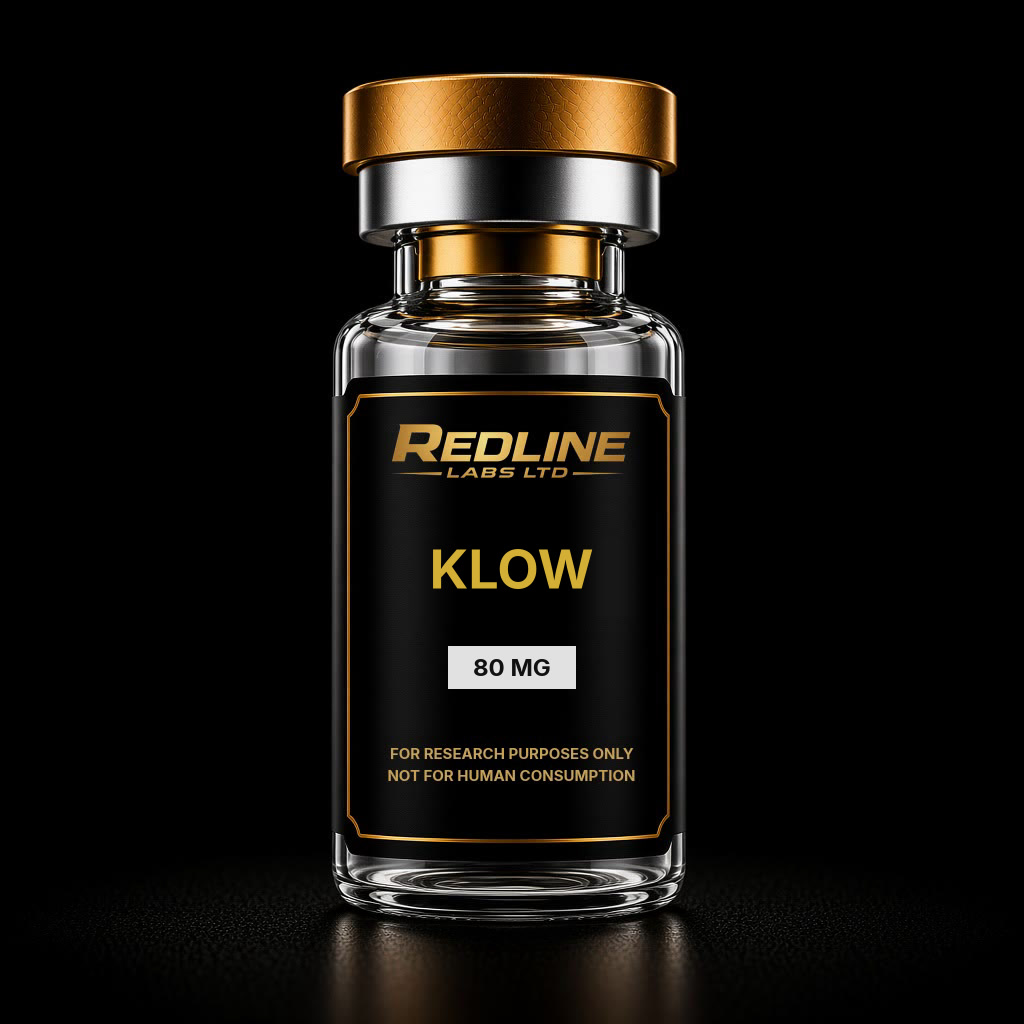
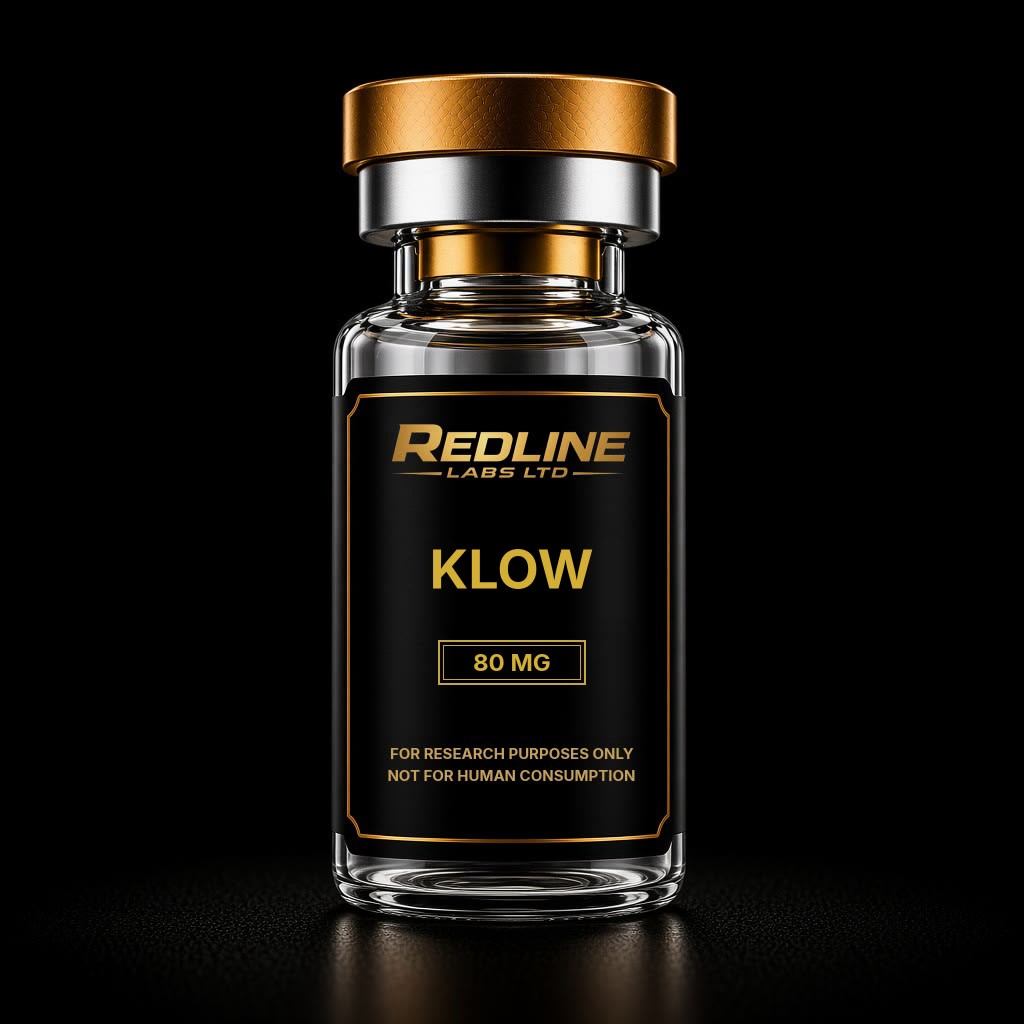
Print catalogue strengths in the shared gold vial label. (#146)
The dose was a white sticker on the black-and-gold vial. Numeric strengths now sit in the same gold double rule on every listing.

Changed region(s): [[0.4062, 0.625, 0.5938, 0.6875]]

diff --git a/scripts/render-product-labels.py b/scripts/render-product-labels.py
@@ -6,6 +6,9 @@ photograph and replaces the product name and dose so the label matches
 src/data/products.json. Dose text follows the same rules as
 src/lib/variant-label.ts: numeric options gain MG, IU, or ML; form
 options such as Nasal Spray stay off the strength badge.
+
+The strength sits in a gold double rule, the same mark used on the
+house label, so every listing reads as one design.
 """
 
 from __future__ import annotations
@@ -104,20 +107,24 @@ def draw_filter(lines: list[str], name_size: int, dose: str | None) -> str:
     if dose:
         dose_size = fit_size(dose, DOSE_MAX_W, 15, 24)
         dose_w = text_width(dose, dose_size)
-        badge_h = round(CAP_RATIO * dose_size + 26)
-        badge_w = round(dose_w + 44)
-        badge_y = 646
+        badge_h = round(CAP_RATIO * dose_size + 28)
+        badge_w = max(148, round(dose_w + 48))
+        badge_y = 640
         badge_x = round((1024 - badge_w) / 2)
         text_y = round(badge_y + (badge_h - CAP_RATIO * dose_size) / 2)
         filters.append(
             f"drawbox=x={badge_x}:y={badge_y}:w={badge_w}:h={badge_h}:"
-            "color=0xF4F4F4@1:t=fill"
+            "color=0xD4AF37:t=2"
+        )
+        filters.append(
+            f"drawbox=x={badge_x + 5}:y={badge_y + 5}:w={badge_w - 10}:h={badge_h - 10}:"
+            "color=0xD4AF37:t=1"
         )
         filters.append(
             "drawtext="
             f"fontfile={FONT}:"
             f"text='{escape_drawtext(dose)}':"
-            "fontcolor=0x111111:"
+            "fontcolor=0xD4AF37:"
             f"fontsize={dose_size}:"
             "x=(w-text_w)/2:"
             f"y={text_y}"
